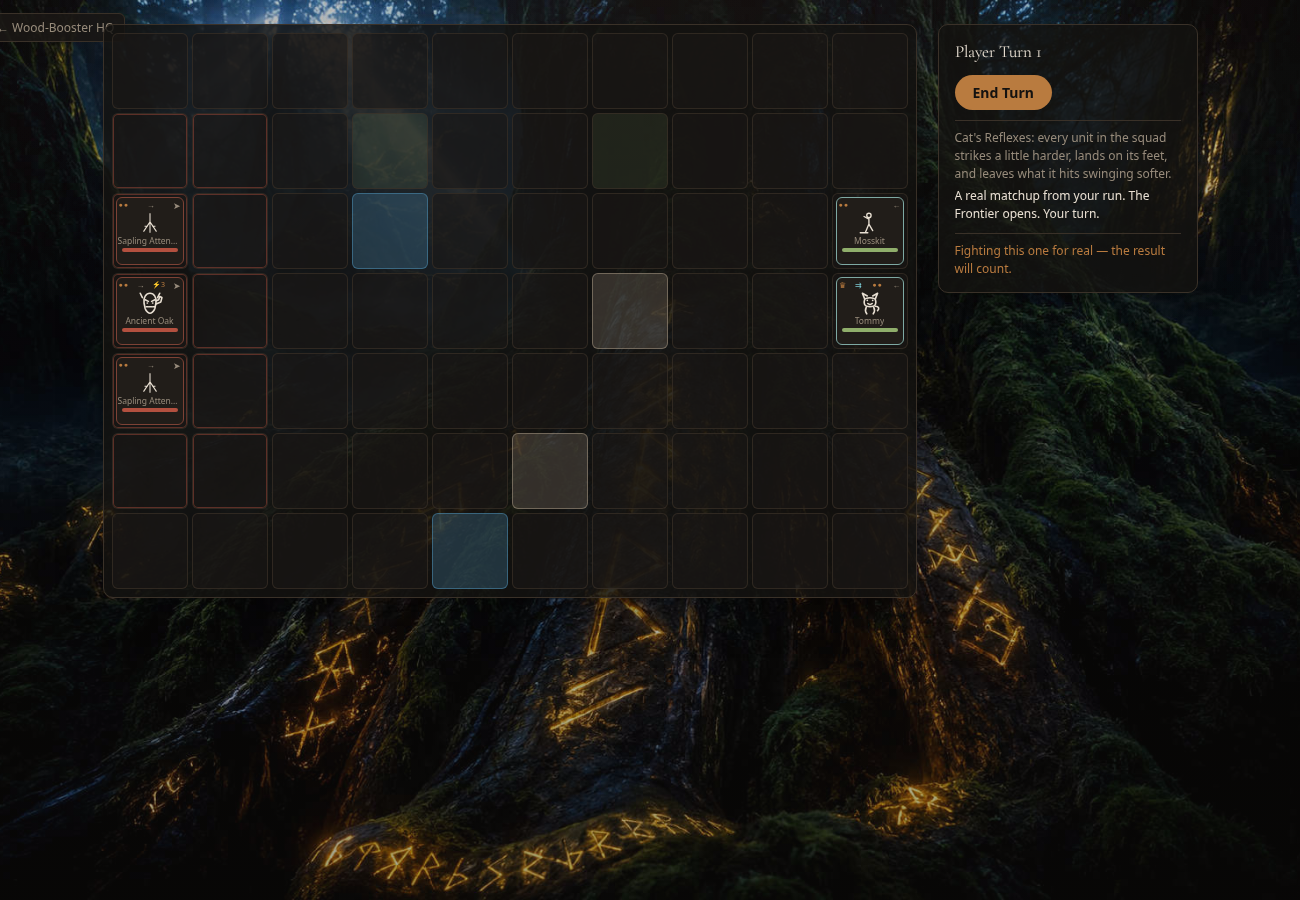
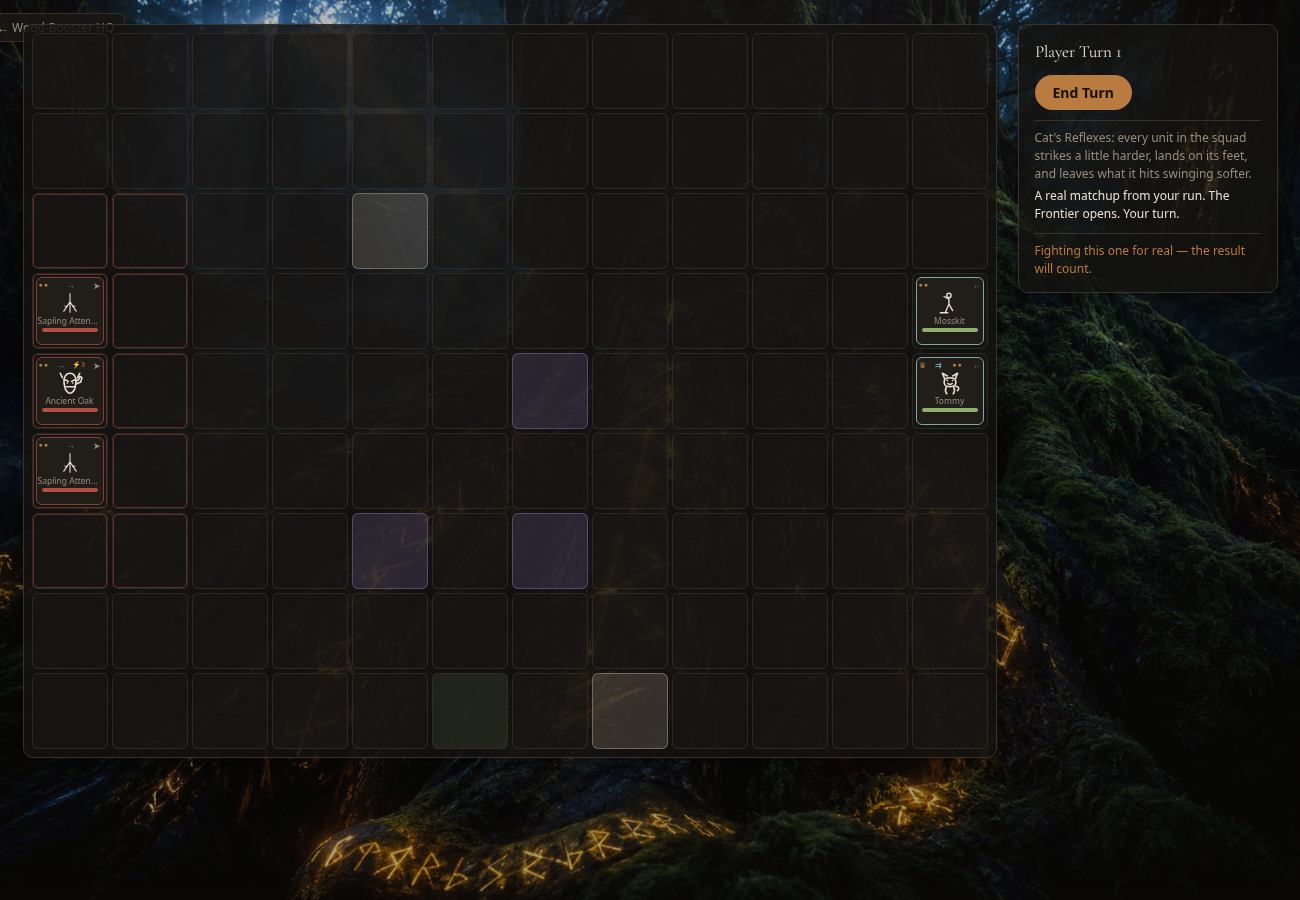
Grow the Hearthwood Frontier tactics board to 9x12 (was 7x10)
Marc picked "both, a bit of each" over wider-only/taller-only, directly
rewarding the Facing and Zone of Control mechanics just built (both
reward getting to an enemy's side/back, which needs room to route
around it).

Every ENEMY_FORMATIONS entry's hardcoded rows array is removed in favor
of spreadRows(count, GRID.rows), the same helper createRealMatchupBattle
already used - enemy placement is now automatically correct for any
future grid-size change too, not just this one. The Crossing's terrain
puzzle is re-authored for the new centre row/column, keeping the same
shape (a poisoned centre shortcut flanked by a rock wall, safe detours
at the edges). generateRealTerrain's column-band formula is generalized
from a hardcoded "3-6 of 10" to "3 to GRID.cols-4", keeping the same
3-column spawn buffer for any board width.

Verify: both full existing suites ran clean before any new checks were
written (142/142 prototype, 23/23 real-battle, 0 regressions beyond 2
already-known terrain-coordinate checks and one hardcoded row-position
assertion, all fixed). Extended: prototype 142->146, real-battle 23->24.

🤖 Generated with Claude Code

diff --git a/src/services/heartwood/tacticsEngine.js b/src/services/heartwood/tacticsEngine.js
@@ -32,7 +32,14 @@ import { isOnBoard, samePos, kingAdjacent, reachableTiles as reachableTilesRaw }
 // Marc: "taistelukenttä saa olla isompi" - the battlefield can be bigger.
 // Doubled the tile count (35 -> 70) for real maneuvering room; every
 // formation's row spread below is re-centered on the taller grid.
-export const GRID = { rows: 7, cols: 10 }
+//
+// Grown again (Movement PRD's Facing + Zone of Control both reward
+// getting to an enemy's side/back, which needs room to route around
+// it): 70 -> 108 tiles. Every ENEMY_FORMATIONS entry's row spread is
+// now computed generically via spreadRows(count, GRID.rows) instead of
+// a hardcoded per-formation array (see createTacticsBattle) - no
+// per-formation re-centering needed this time or any future resize.
+export const GRID = { rows: 9, cols: 12 }
 
 // Terrain (Hearthwood Frontier, feat/hearthwood-tactics-terrain): this
 // game has never had a per-cell battlefield property before (confirmed
@@ -177,7 +184,6 @@ export const ENEMY_FORMATIONS = {
     name: "The Frontier Test Squad",
     description: "The roster this Frontier opened with - a wall, a claw, and a hoard.",
     enemyDefIds: ["ironmaw", "sapling-attendant", "hoardling"],
-    rows: [2, 3, 4],
     battleStartBonus: 0,
     fortressBlock: 0,
     selfMend: 0,
@@ -187,7 +193,6 @@ export const ENEMY_FORMATIONS = {
     name: "The Brood",
     description: "Not one thing to fight. A dozen small ones, and every one of them is still a mouth.",
     enemyDefIds: ["sporelet", "mire-gnat", "sporelet", "mire-gnat"],
-    rows: [1, 2, 3, 4],
     battleStartBonus: 1,
     fortressBlock: 0,
     selfMend: 0,
@@ -197,7 +202,6 @@ export const ENEMY_FORMATIONS = {
     name: "The Bulwark",
     description: "Two wardens shoulder to shoulder, and a mender behind them stitching every crack shut before you can widen it.",
     enemyDefIds: ["oakshell-warden", "oakshell-warden", "mossmender"],
-    rows: [2, 3, 4],
     battleStartBonus: 0,
     fortressBlock: 3,
     selfMend: 0,
@@ -207,7 +211,6 @@ export const ENEMY_FORMATIONS = {
     name: "The Pack",
     description: "Three of them, low and fast, already circling the one of you that looks tired.",
     enemyDefIds: ["fen-stalker", "pack-runner", "fen-stalker"],
-    rows: [2, 3, 4],
     battleStartBonus: 2,
     fortressBlock: 0,
     selfMend: 0,
@@ -217,7 +220,6 @@ export const ENEMY_FORMATIONS = {
     name: "The Ancient Grove",
     description: "Two small things moving fast, and behind them one that has not moved yet, and is about to.",
     enemyDefIds: ["sapling-attendant", "ancient-oak", "sapling-attendant"],
-    rows: [2, 3, 4],
     battleStartBonus: 0,
     fortressBlock: 0,
     selfMend: 0,
@@ -227,7 +229,6 @@ export const ENEMY_FORMATIONS = {
     name: "The Conclave",
     description: "Two of them stand ready, and behind them a third that only ever moves its lips.",
     enemyDefIds: ["bog-devotee", "hex-acolyte", "coven-matron"],
-    rows: [2, 3, 4],
     battleStartBonus: 0,
     fortressBlock: 0,
     selfMend: 0,
@@ -237,7 +238,6 @@ export const ENEMY_FORMATIONS = {
     name: "The Communion",
     description: "Two kneeling, one counting. In two breaths there will be one kneeling, and the other two will be worse.",
     enemyDefIds: ["sworn-cultist", "sworn-cultist", "ritual-warden"],
-    rows: [2, 3, 4],
     battleStartBonus: 0,
     fortressBlock: 0,
     selfMend: 0,
@@ -247,7 +247,6 @@ export const ENEMY_FORMATIONS = {
     name: "The Clutch",
     description: "Three of them, swollen and still. Break one open and see what spills out.",
     enemyDefIds: ["brood-mother", "brood-mother", "brood-mother"],
-    rows: [2, 3, 4],
     battleStartBonus: 0,
     fortressBlock: 0,
     selfMend: 0,
@@ -257,7 +256,6 @@ export const ENEMY_FORMATIONS = {
     name: "The Blight",
     description: "Three of them, low to the ground, and the ground going soft and black behind them.",
     enemyDefIds: ["rotgut-crawler", "spore-lurcher", "rotgut-crawler"],
-    rows: [2, 3, 4],
     battleStartBonus: 0,
     fortressBlock: 0,
     selfMend: 1,
@@ -267,7 +265,6 @@ export const ENEMY_FORMATIONS = {
     name: "The Tithe",
     description: "Two quick hands and one patient one. They will leave with more than they came with.",
     enemyDefIds: ["hoardling", "tithe-warden", "hoardling"],
-    rows: [2, 3, 4],
     battleStartBonus: 0,
     fortressBlock: 0,
     selfMend: 0,
@@ -283,7 +280,6 @@ export const ENEMY_FORMATIONS = {
     name: "Deepwarden",
     description: "It has been standing here since before you knew the Hearthwood existed. It isn't moving.",
     enemyDefIds: ["deepwarden"],
-    rows: [3],
     battleStartBonus: 0,
     fortressBlock: 0,
     selfMend: 0,
@@ -296,7 +292,6 @@ export const ENEMY_FORMATIONS = {
     name: "The Gorging Maw",
     description: "Every wound it opens on you, it closes one of its own. Don't let this go long.",
     enemyDefIds: ["the-gorging-maw"],
-    rows: [3],
     battleStartBonus: 0,
     fortressBlock: 0,
     selfMend: 0,
@@ -310,7 +305,6 @@ export const ENEMY_FORMATIONS = {
     name: "Wyrmgall",
     description: "It isn't watching your squad. It's watching for the mistake your squad hasn't made yet.",
     enemyDefIds: ["wyrmgall"],
-    rows: [3],
     battleStartBonus: 0,
     fortressBlock: 0,
     selfMend: 0,
@@ -325,7 +319,6 @@ export const ENEMY_FORMATIONS = {
     name: "The Iron Sentinel",
     description: "Its armour thickens every round it stands. A slow grind loses this one - open big or execute.",
     enemyDefIds: ["the-iron-sentinel"],
-    rows: [3],
     battleStartBonus: 0,
     fortressBlock: 0,
     selfMend: 0,
@@ -338,7 +331,6 @@ export const ENEMY_FORMATIONS = {
     name: "Thornmaw",
     description: "It doesn't raise its guard. It doesn't need to - it's already healed from worse than you.",
     enemyDefIds: ["thornmaw"],
-    rows: [3],
     battleStartBonus: 0,
     fortressBlock: 0,
     selfMend: 0,
@@ -352,7 +344,6 @@ export const ENEMY_FORMATIONS = {
     name: "Spacemonkey",
     description: "\"You made it further than I expected.\" He doesn't sound worried. He sounds curious.",
     enemyDefIds: ["spacemonkey"],
-    rows: [3],
     battleStartBonus: 0,
     fortressBlock: 0,
     selfMend: 0,
@@ -370,17 +361,21 @@ export const ENEMY_FORMATIONS = {
     name: "The Crossing",
     description: "One straight path across, already poisoned. The long way around is still open, if there's time for it.",
     enemyDefIds: ["ironmaw"],
-    rows: [3],
     battleStartBonus: 0,
     fortressBlock: 0,
     selfMend: 0,
+    // Re-centered for the 9x12 grid (was 7x10): the wall still flanks
+    // the enemy's own centre row immediately above/below, the poisoned
+    // shortcut still runs straight through the centre, and the water
+    // tile still sits 2 tiles in front of the enemy's own spawn -
+    // same puzzle shape, just recomputed for the taller/wider board.
     terrain: {
-      "1-5": "rock",
-      "2-5": "rock",
-      "4-5": "rock",
-      "5-5": "rock",
-      "3-5": "poison",
-      "3-2": "water",
+      "2-6": "rock",
+      "3-6": "rock",
+      "5-6": "rock",
+      "6-6": "rock",
+      "4-6": "poison",
+      "4-2": "water",
     },
   },
 }
@@ -695,13 +690,14 @@ function deriveCommanderUnit(characterId, pos, uid) {
 export function createTacticsBattle(formationId = "default", squadDefIds = PLAYER_DEF_IDS) {
   const formation = ENEMY_FORMATIONS[formationId] || ENEMY_FORMATIONS.default
   const playerRows = spreadRows(squadDefIds.length + 1, GRID.rows)
+  const enemyRows = spreadRows(formation.enemyDefIds.length, GRID.rows)
   const units = [
     ...squadDefIds.map((defId, i) =>
       deriveTacticsUnit(defId, "player", { row: playerRows[i], col: GRID.cols - 1 }, `player-${defId}-${i}`),
     ),
     deriveCommanderUnit(DEFAULT_COMMANDER_ID, { row: playerRows[squadDefIds.length], col: GRID.cols - 1 }, "player-commander"),
     ...formation.enemyDefIds.map((defId, i) =>
-      deriveTacticsUnit(defId, "enemy", { row: formation.rows[i], col: 0 }, `enemy-${defId}-${i}`),
+      deriveTacticsUnit(defId, "enemy", { row: enemyRows[i], col: 0 }, `enemy-${defId}-${i}`),
     ),
   ]
   // The Commander's real Squad Passive (characters.js) - applied to

diff --git a/src/services/heartwood/tacticsRealMatchup.js b/src/services/heartwood/tacticsRealMatchup.js
@@ -50,10 +50,12 @@ function pickTerrainType(roll) {
 // is a fresh, stable generator - the SAME (seed, nodeIndex) always
 // regenerates the SAME battlefield (reload-safe, share-a-seed-safe),
 // matching every other stream-consuming caller's own contract exactly.
-// Confined to the grid's middle 4 columns (3-6 of GRID.cols=10) so
-// neither side's own spawn column is ever touched - the same "hazards
-// live between the two sides" shape The Crossing's own hand-authored
-// layout already established. A pure function of (seed, nodeIndex) -
+// Confined to the grid's middle columns, keeping a 3-column buffer clear
+// on each side (never touching a spawn column) regardless of GRID.cols -
+// the same "hazards live between the two sides" shape The Crossing's own
+// hand-authored layout already established, generalized so a future
+// board-size change needs no edit here either. A pure function of
+// (seed, nodeIndex) -
 // tacticsEngine.js itself stays unaware the seed system exists at all;
 // it just receives a plain terrain map, indistinguishable from a
 // hand-authored ENEMY_FORMATIONS one.
@@ -65,7 +67,7 @@ export function generateRealTerrain(seed, nodeIndex) {
   while (placed < TERRAIN_HAZARD_COUNT && attempts < TERRAIN_HAZARD_COUNT * 4) {
     attempts++
     const row = Math.floor(rng() * GRID.rows)
-    const col = 3 + Math.floor(rng() * 4)
+    const col = 3 + Math.floor(rng() * (GRID.cols - 6))
     const key = `${row}-${col}`
     if (terrain[key]) continue
     terrain[key] = pickTerrainType(rng())

diff --git a/src/components/heartwood/heartwood-tactics.css b/src/components/heartwood/heartwood-tactics.css
@@ -60,8 +60,8 @@
 
 .hwt-board {
   display: grid;
-  grid-template-columns: repeat(7, 76px);
-  grid-template-rows: repeat(5, 76px);
+  grid-template-columns: repeat(12, 76px);
+  grid-template-rows: repeat(9, 76px);
   gap: 4px;
   background: var(--hw-surface-bg);
   border: 1px solid var(--hw-border);
